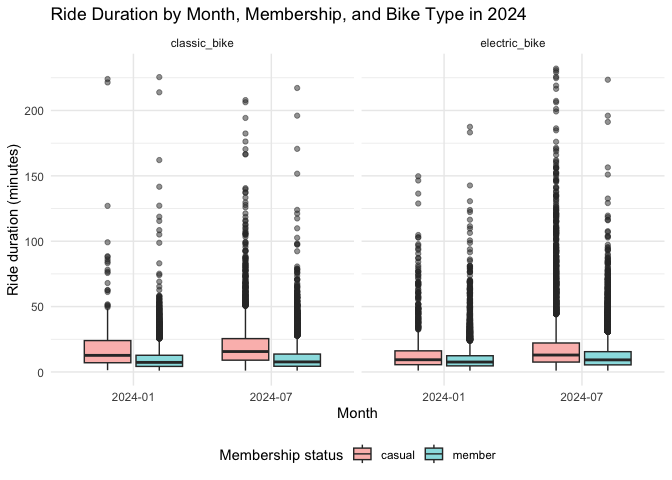
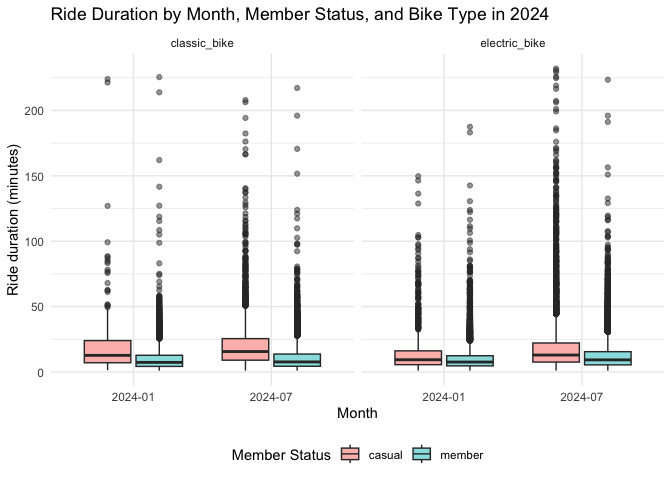
updating titles

Changed region(s): [[0.4688, 0.0, 0.8125, 0.0625], [0.3125, 0.9062, 0.75, 0.9688]]

diff --git a/p8105_hw_3_ra3429.md b/p8105_hw_3_ra3429.md
@@ -581,6 +581,9 @@ pandemic increasing median ride duration in July 2020.
 
 ## Understanding the association of bike type with ride duration
 
+Creating a plot showing the association of bike type with ride duration
+including month and membership status
+
 ``` r
 citi_df |>
   filter(date %in% c("2024-01", "2024-07")) |>
@@ -590,14 +593,15 @@ citi_df |>
   theme_minimal() +
   theme(legend.position = "bottom") +
   labs(
-    title = "Ride Duration by Month, Membership, and Bike Type in 2024",
+    title = "Ride Duration by Month, Member Status, and Bike Type in 2024",
     x = "Month",
     y = "Ride duration (minutes)",
-    fill = "Membership status"
+    fill = "Member Status"
   )
 ```
 
 ![](p8105_hw_3_ra3429_files/figure-gfm/unnamed-chunk-16-1.png)<!-- -->
+
 Here we see that Electric Bikes had an apparent longer median duration
 in casual riders vs. members in both January and July of 2024. Among
 members, electric bikes appeared to have longer median ride duration in
